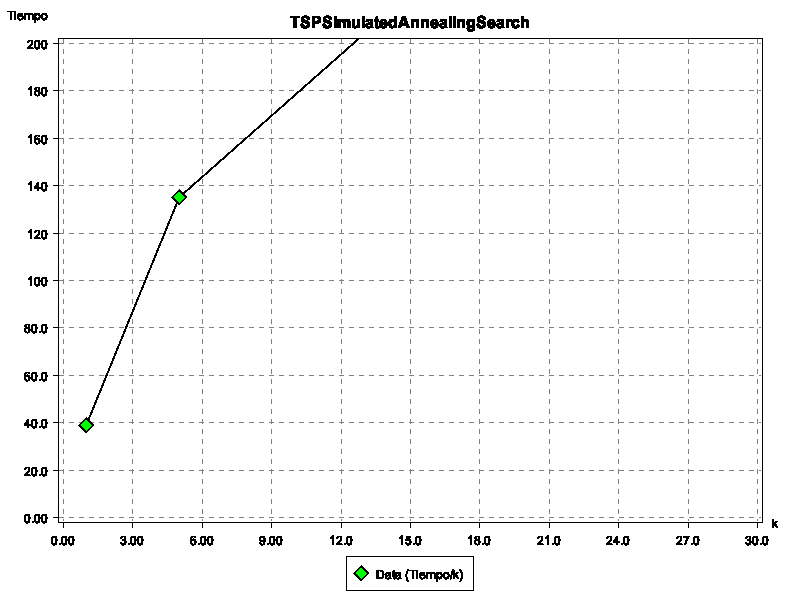
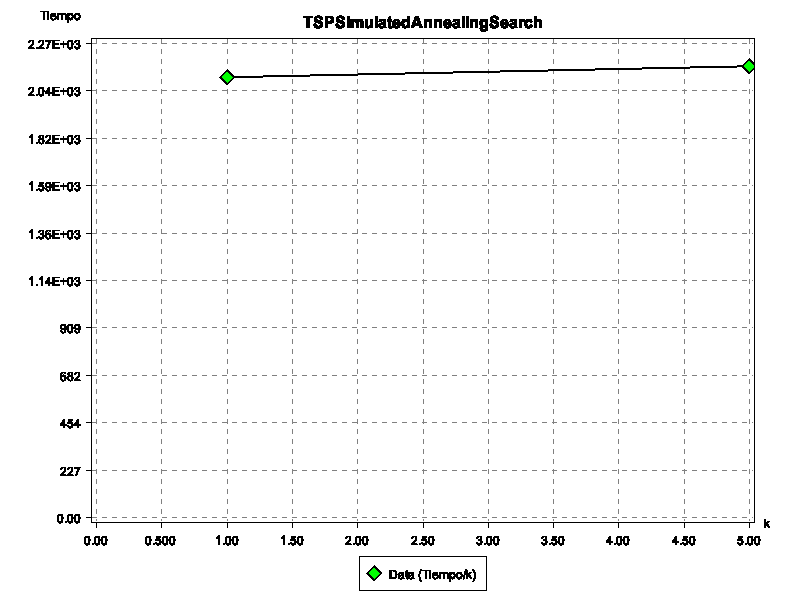
plotting

diff --git a/src/Main.java b/src/Main.java
@@ -13,30 +13,18 @@ import java.awt.Color;
 public class Main {
 
     public static void main(String[] args) throws IOException{
-        adjustmentK();
-        /*
-        Plot plot = Plot.plot(Plot.plotOpts().
-                title("TSPSimulatedAnnealingSearch").
-                legend(Plot.LegendFormat.BOTTOM)).
-                xAxis("Usuarios", Plot.axisOpts().
-                        range(0, 200)).
-                yAxis("Tiempo", Plot.axisOpts().
-                        range(0, 200));
-        Plot.Data datos = Plot.data();
-        for(int i=1;i<=20;i++){
-            State s = new State(new Usuarios(10*i, 5*i, 1234));
-            s.averageInit();
-            TSPSimulatedAnnealingSearch(s);
-            datos.xy(10*i,elapsedTime);
-
-        }
-        plot.series("Data", datos,
-                Plot.seriesOpts().
-                        marker(Plot.Marker.DIAMOND).
-                        markerColor(Color.GREEN).
-                        color(Color.BLACK));
-        plot.save("TSPSimulatedAnnealingSearch", "png");
-        */
+        //adjustmentK();
+        State s = new State(new Usuarios(50, 25, 1234));
+        //s.ImprimirDistancias();
+        //s.ImprimirPosiciones();
+        //s.donkeyInit();
+        //System.out.println("Donkey Init" + s);
+        s.averageInit();
+        System.out.println("Average Init" + s);
+        //s.minRouteInit();
+        //System.out.println("Min Route Init" + s);
+        TSPSimulatedAnnealingSearch(s);
+        TSPHillClimbingSearch(s);
     }
 
 
@@ -110,27 +98,32 @@ public class Main {
         double hillClimbingDistance = goalState.distanciaTotal();
         Plot plot = Plot.plot(Plot.plotOpts().
                 title("TSPSimulatedAnnealingSearch").
-                legend(Plot.LegendFormat.BOTTOM)).
-                xAxis("k", Plot.axisOpts().
-                        range(0, 30)).
-                yAxis("Tiempo", Plot.axisOpts().
-                        range(0, 200));
-        Plot.Data datos = Plot.data();
-        int bestK = 1;
+                legend(Plot.LegendFormat.BOTTOM));
+        Plot.Data line = Plot.data();
+        int bestK = 1, iter = 2;
+        double maxX, maxY, differ, maxDistance = 0, distance;
         double bestDistance = Double.MAX_VALUE;
-        for(int i=0;i<3;i++){
+        for(int i=0;i<iter;i++){
             int k = (int) Math.pow(5,i);
             System.out.println("K: " + k);
             search =  new SimulatedAnnealingSearch(500,10000,k,0.1);
             TSPSimulatedAnnealingSearch(s);
-            datos.xy(k,elapsedTime);
-            if(bestDistance > Math.abs(goalState.distanciaTotal() - hillClimbingDistance)){
-                bestDistance = goalState.distanciaTotal();
+            distance = goalState.distanciaTotal();
+            line.xy(k,distance);
+            differ = Math.abs(distance - hillClimbingDistance);
+            if(bestDistance > differ){
+                bestDistance = differ;
                 bestK = k;
             }
-
+            if(maxDistance < distance) maxDistance = distance;
+            if(i == iter - 1){
+                plot.xAxis("k", Plot.axisOpts().
+                        range(0, k)).
+                        yAxis("Distancia", Plot.axisOpts().
+                                range(0, maxDistance*1.05));
+            }
         }
-        plot.series("Data", datos,
+        plot.series("Data", line,
                 Plot.seriesOpts().
                         marker(Plot.Marker.DIAMOND).
                         markerColor(Color.GREEN).
